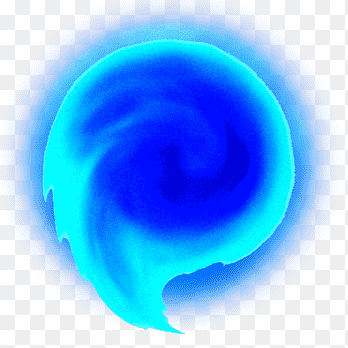
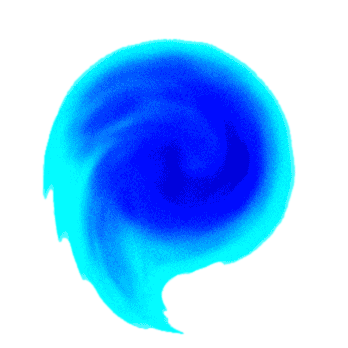
fin de la classe projectile

diff --git a/sortilege.py b/sortilege.py
@@ -1,7 +1,31 @@
 import pygame as pg
 
 class Sortilege(pg.sprite.Sprite):
-    def __init__(self):
+
+    def __init__(self, joueur):
         super().__init__()
         self.vitesse = 5
+        self.joueur = joueur
         self.image = pg.image.load('projectile.png')
+        self.image = pg.transform.scale(self.image, (50,50))
+        self.image = pg.transform.rotate(self.image, 290)
+        self.rect = self.image.get_rect()
+        self.rect.x = joueur.rect.x + 145
+        self.rect.y = joueur.rect.y + 100
+        self.origine_image = self.image
+        self.angle=0
+
+    
+    def rotate(self):
+        self.angle+=12
+        self.image=pg.transform.rotozoom(self.origine_image,self.angle,1)
+        self.rect=self.image.get_rect(center=self.rect.center) #pour que la rotation se fasse par rapport au centre du rect
+        
+    def remove(self):
+        self.joueur.groupe_sortileges.remove(self)
+
+    def move(self):
+        self.rect.x+=self.vitesse
+        self.rotate()
+        if self.rect.x > 1100:
+            self.remove()

diff --git a/annegab.py b/annegab.py
@@ -22,6 +22,12 @@ while running:
     #appliquer l'image du joueur
     screen.blit(jeu.joueur.image, jeu.joueur.rect)
 
+    for sort in jeu.joueur.groupe_sortileges:
+        sort.move()
+    
+    #appliquer l'ensemble des images du groupe de sortilèges
+    jeu.joueur.groupe_sortileges.draw(screen)
+
     if jeu.pressed.get(pg.K_RIGHT) and jeu.joueur.rect.x + jeu.joueur.rect.width < screen.get_width():
         jeu.joueur.move_right()
     elif jeu.pressed.get(pg.K_LEFT) and jeu.joueur.rect.x > 0:
@@ -42,6 +48,9 @@ while running:
             pg.quit()
         elif event.type == pg.KEYDOWN:
             jeu.pressed[event.key] = True
+            if event.key == pg.K_SPACE:
+                jeu.joueur.launch_spell()
+
         elif event.type == pg.KEYUP:
             jeu.pressed[event.key] = False
     

diff --git a/joueur.py b/joueur.py
@@ -1,4 +1,5 @@
 import pygame as pg
+from sortilege import Sortilege
 
 #créer la classe des joueurs
 class Joueur(pg.sprite.Sprite):
@@ -9,9 +10,14 @@ class Joueur(pg.sprite.Sprite):
         self.max_vie = 100
         self.sort = 10
         self.vitesse = 5
+        self.groupe_sortileges=pg.sprite.Group() #groupe de sortileges pour pouvoir lancer plusieurs sorts
         self.image = pg.image.load('harry2.png')
         self.rect = self.image.get_rect()
         self.rect.y = 100
+
+    def launch_spell(self):
+        #créer un nouvel objet de la classe Sortilege
+        self.groupe_sortileges.add(Sortilege(self)) #on place self en argument pour avoir accès aux coordonnées du joueur au moment de lancer un sortilège
     
     def move_right(self):
         self.rect.x = self.rect.x + self.vitesse 
